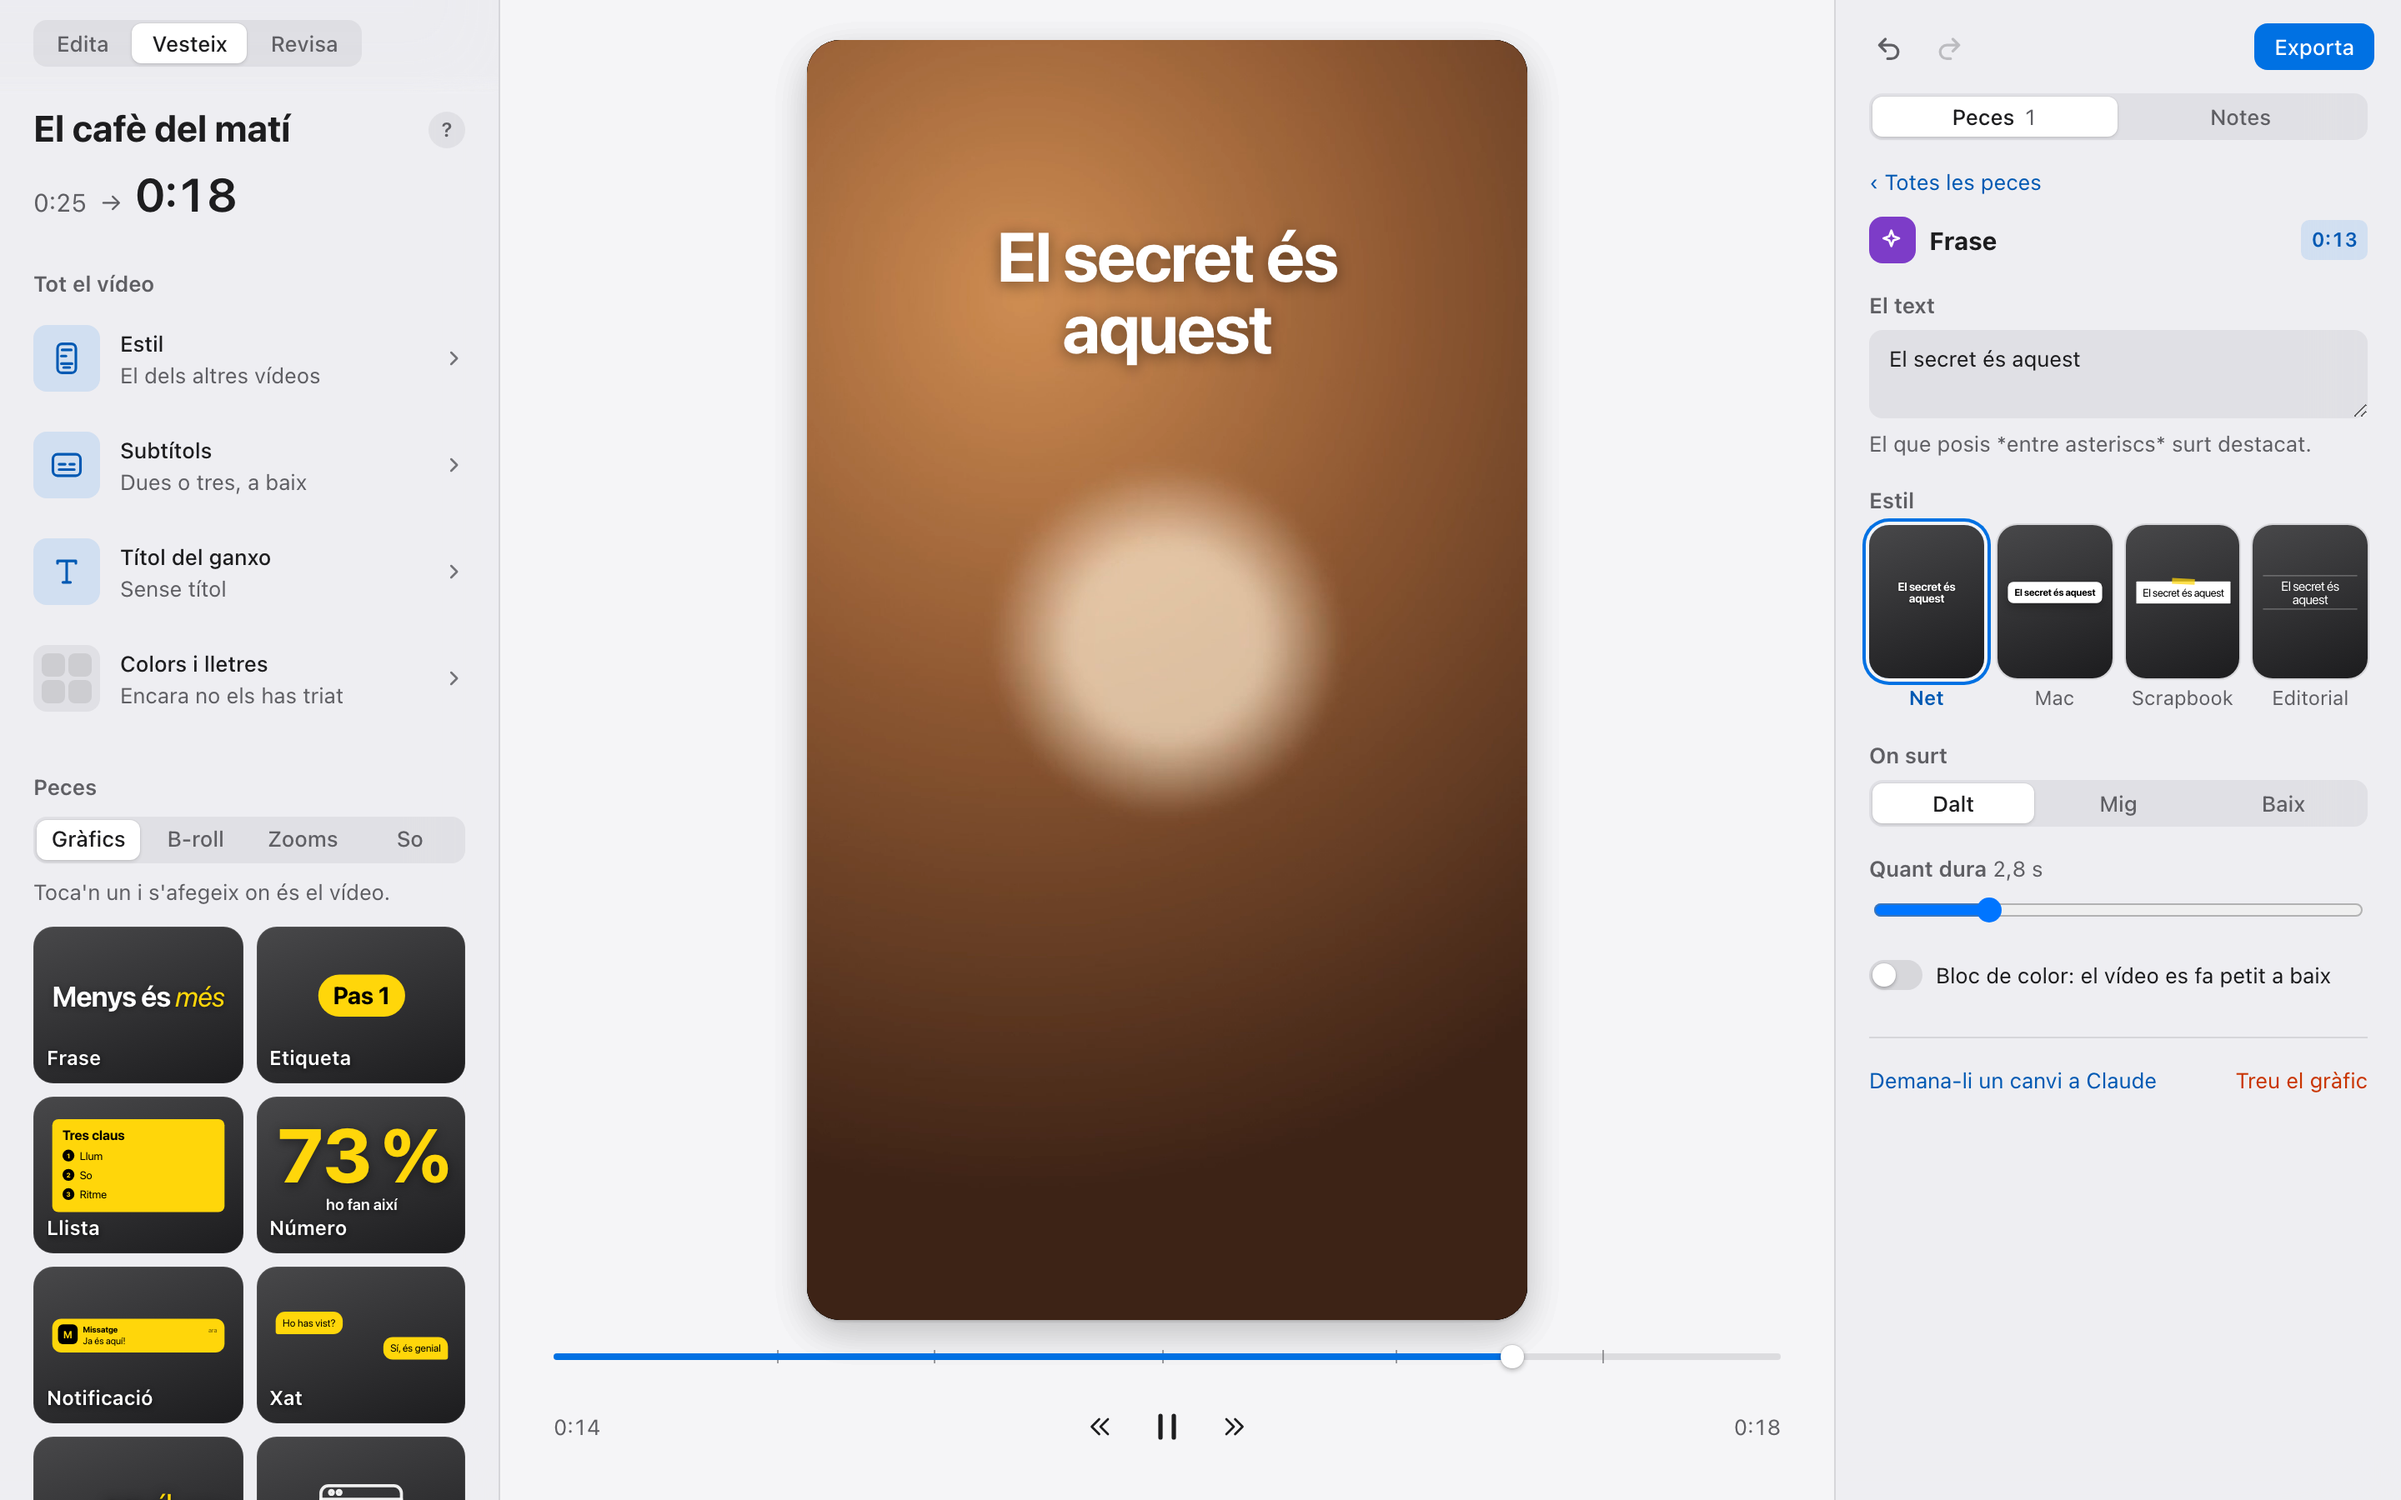
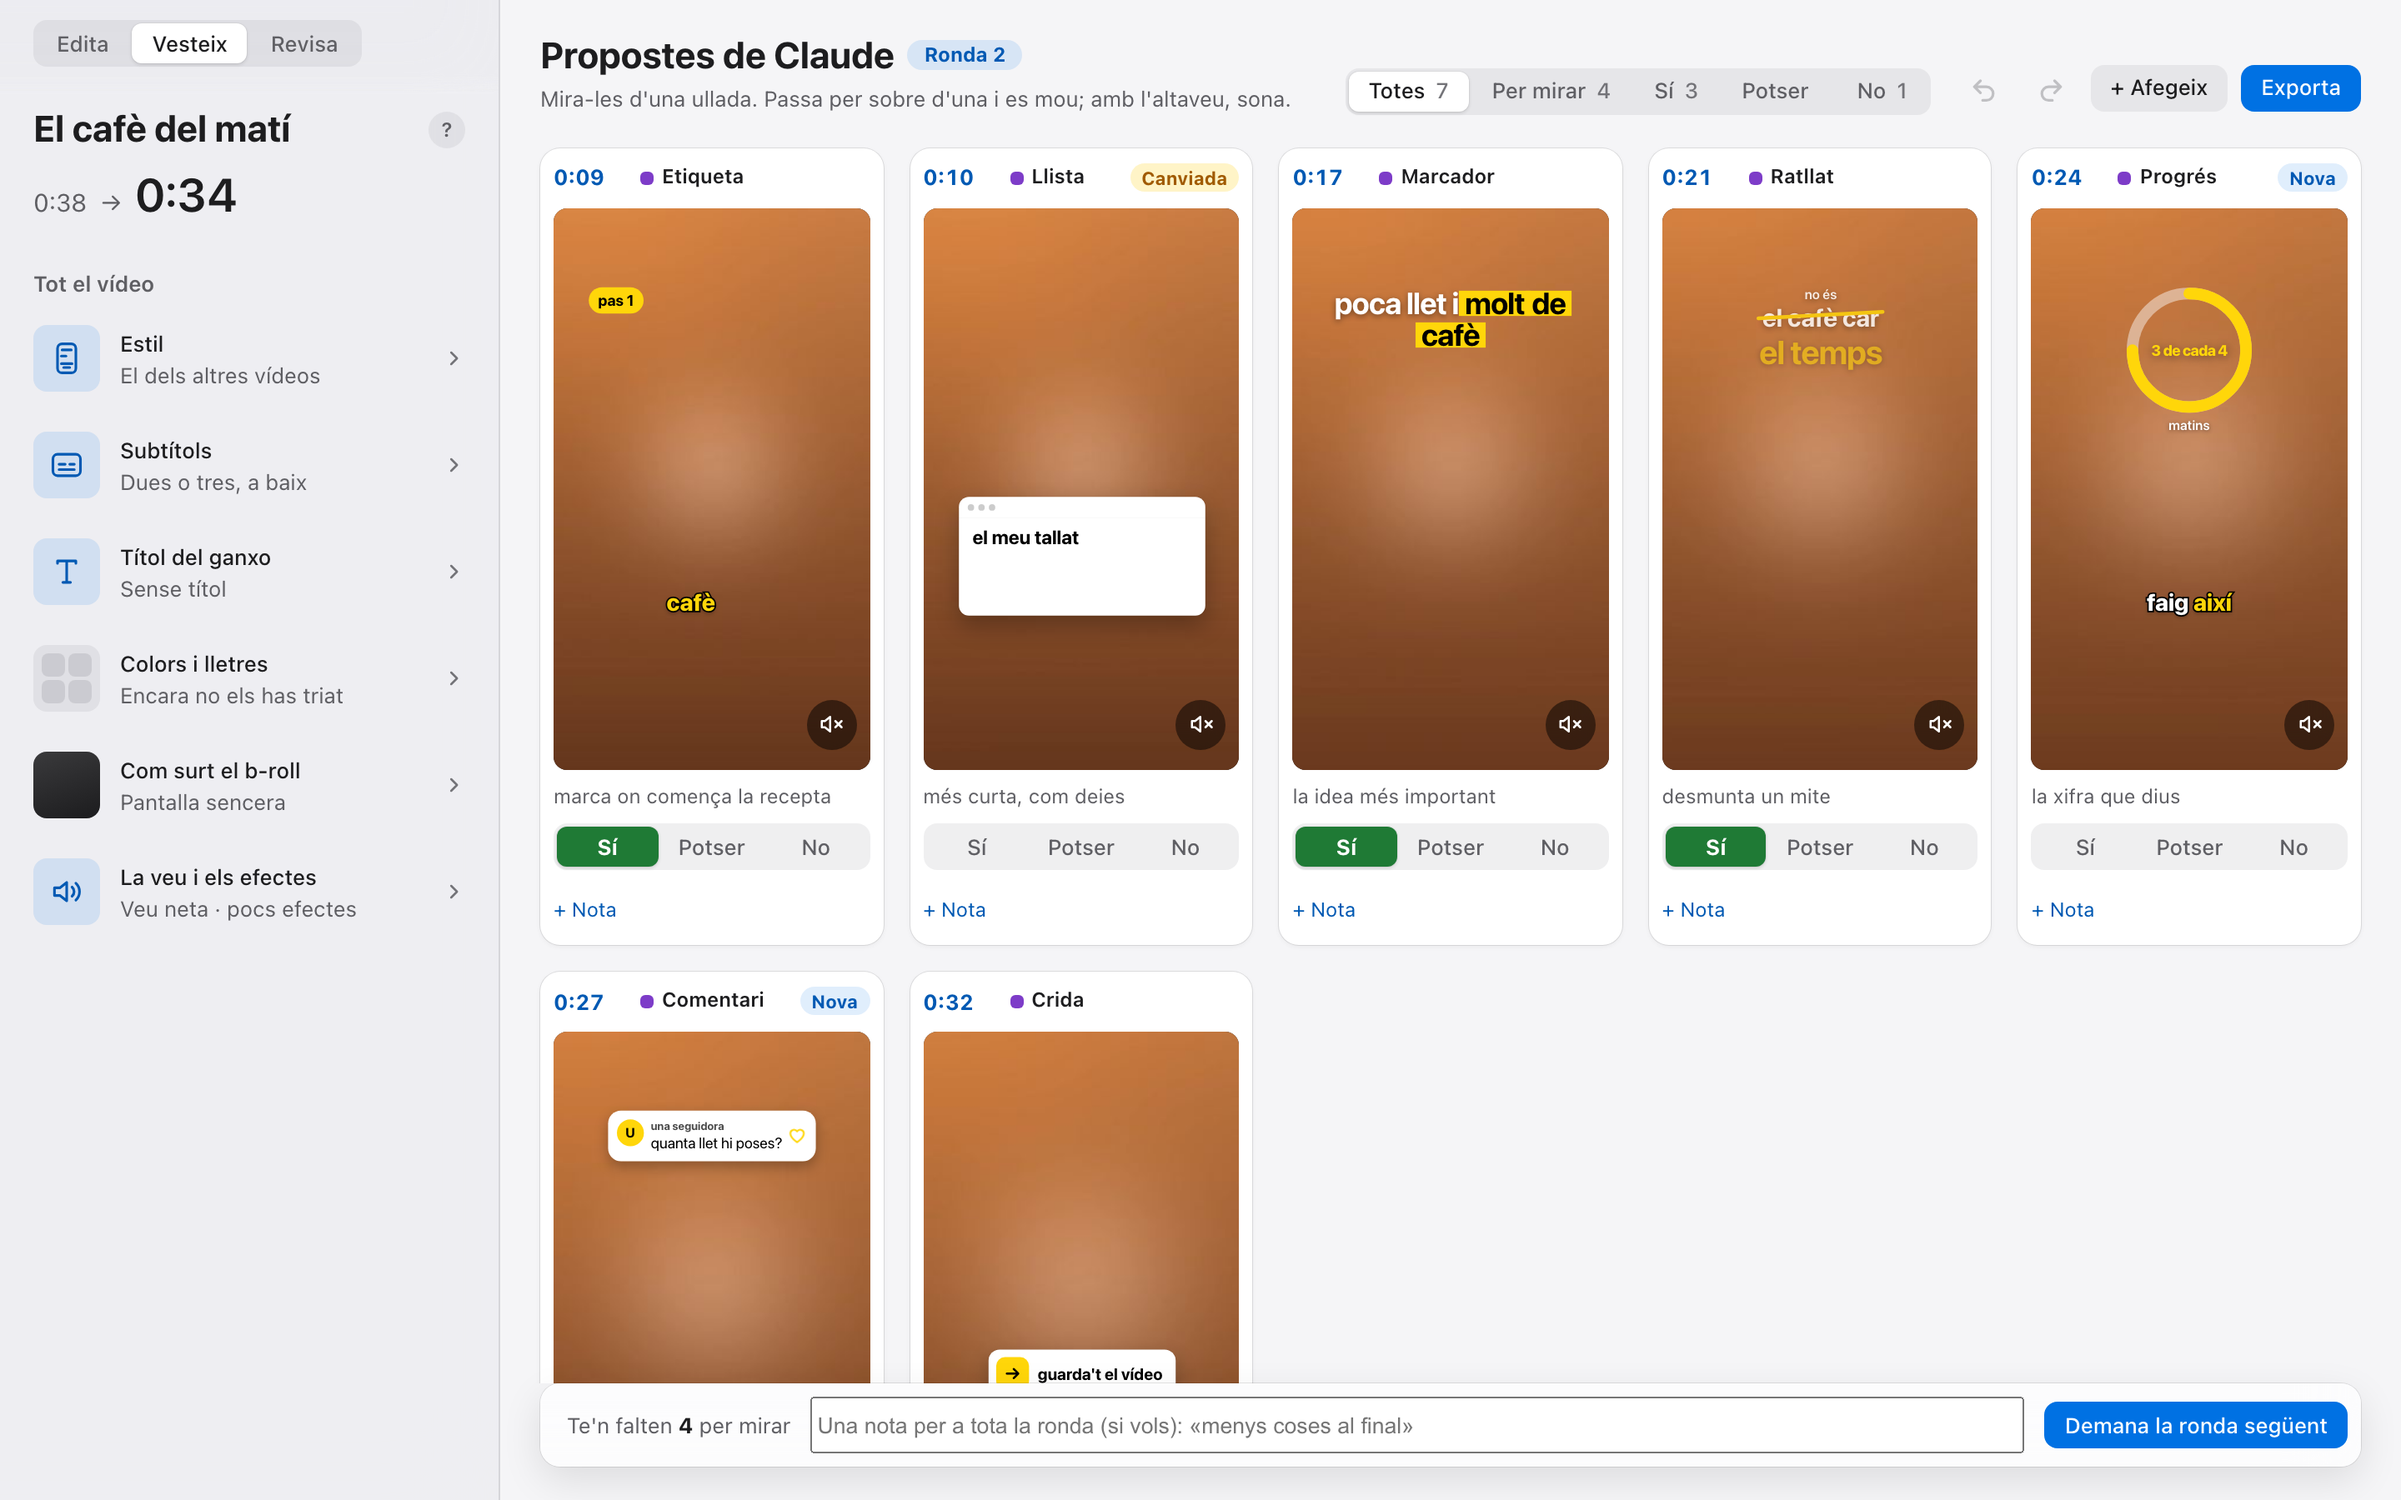
Versió 0.9.0: un tauler per votar les propostes de Claude, gràfics nous i el vídeo horitzontal

diff --git a/README.md b/README.md
@@ -21,15 +21,18 @@ tallat és un editor de reels en català que funciona dins de [Claude](https://c
 - **B-roll i stickers.** Fitxers teus, o generats amb la intel·ligència artificial d'imatge o vídeo que tinguis connectada a Claude. El b-roll pot tapar tota la pantalla o sortir en una targeta arrodonida, en una finestra petita, com una foto, amb la pantalla partida o en tres targetes seguides.
 - **Canvies l'ordre** dels paràgrafs arrossegant-los.
 - **Títol del ganxo.** Un text dissenyat per als primers segons («#3 canvis / **ser creadora** / nivell fàcil»), que pots escriure tu o et proposa Claude, amb el seu estil: en esglaó, com un rètol, a màquina d'escriure amb el fons enfosquit…
-- **Vesteix el vídeo tocant-lo.** Tria un estil per a tot el vídeo d'un sol toc (subtítols, títol, gràfics i b-roll: Net, Revista, Pop, Suau, Impacte o Apilat) i afegeix-hi peces: atura el vídeo on vulguis i toca un gràfic, un b-roll, un zoom o un so. Cada vídeo té el seu estil, i **⌘Z** ho desfà tot.
+- **Gràfics que expliquen el que dius.** Frases clau, un marcador fluorescent, el «no és X, és Y» ratllat, llistes, xifres que compten i cercles de progrés, comentaris i publicacions que respons, notes del mòbil, xats, el marc d'una càmera que grava, l'abans i després, fotos en ventall o en carrusel i la crida final («segueix-me»). Tot amb els teus colors i lletres.
+- **Claude te'ls proposa i tu els votes.** A **Vesteix**, totes les peces del vídeo surten en un tauler, cadascuna movent-se tal com quedarà. Hi dius **Sí**, **Potser** o **No** (amb una nota, si vols) i Claude en fa una ronda nova, fins que t'agradi. Hi pots afegir stickers i b-roll teus, i els stickers els arrossegues on vulguis.
+- **Un estil per a tot el vídeo d'un sol toc** (subtítols, títol, gràfics i b-roll: Net, Revista, Pop, Suau, Impacte o Apilat). Cada vídeo té el seu estil, i **⌘Z** ho desfà tot.
+- **Vídeo horitzontal.** Si graves en horitzontal, el pots retallar (se'n queda el centre) o posar-lo sencer, amb el mateix vídeo difuminat a dalt i a baix.
 - **Els teus colors i lletres.** Els tries a la pàgina en 2 passos (o, si vols, Claude te'ls pregunta al xat, a partir d'un reel que t'hauria agradat fer), i els subtítols, el títol, els gràfics i el b-roll els fan servir sols.
 - **Uns quants estils.** Desa el teu estil (lletra, colors, animacions, durada del b-roll…) amb un nom, fes-ne uns quants per a tipus de vídeo diferents, tria'n un per a cada vídeo i passa'l a qui vulguis en un `.zip`.
 - **Recorda el teu gust.** Si dius a Claude «els subtítols, més grans» o «no em treguis mai els *vale*», et pregunta si és per sempre i ho aplica a tots els vídeos següents. Per veure les teves regles, pregunta-li «quines regles tinc?».
 - **Exporta** un esborrany ràpid, la versió final en 1080 o 4K vertical, o un projecte per acabar-lo a Premiere, Final Cut, DaVinci Resolve o CapCut.
 
-![Vesteix: a l'esquerra la galeria de peces, al mig el vídeo amb una frase clau, a la dreta la frase per retocar-la.](.github/imatges/2-vesteix.png)
+![Vesteix: a l'esquerra el que val per a tot el vídeo; al mig, el tauler amb els gràfics que proposa Claude, cadascun amb el seu tros de vídeo i els botons Sí, Potser i No.](.github/imatges/2-vesteix.png)
 
-*A Vesteix, toques una peça i s'afegeix on és el vídeo. A la dreta la retoques.*
+*A Vesteix, cada gràfic que et proposa Claude es mou tal com quedarà al vídeo. Hi dius Sí, Potser o No, i Claude en fa una ronda nova.*
 
 ![Una nota per a Claude sota el vídeo, i la resposta de Claude: ha posat un zoom.](.github/imatges/3-notes.png)
 
@@ -99,8 +102,8 @@ Claude baixa i prepara tot el que tallat necessita: ffmpeg (per treballar el ví
    | amagar la columna de l'esquerra o la del vídeo | ⌃⌘S / ⌥⌘V |
 
    A la columna de l'esquerra d'**Edita** hi ha **Per revisar** (les instruccions de veu i les paraules que tallat et proposa treure) i el **Ritme** (com de curts vols els silencis).
-3. Ves a **Vesteix** (a dalt a l'esquerra): és on tries com es veu. A **Tot el vídeo**: l'**Estil** (sis maneres de vestir tot el vídeo d'un sol toc: subtítols, títol, gràfics i b-roll), els **Subtítols** i el **Títol del ganxo** (es retoquen a la dreta) i els teus **Colors i lletres** (valen per a tots els vídeos). El que canvies és només d'aquest vídeo; si t'agrada, **Fes-lo servir en tots els vídeos**. A **Peces**, els **gràfics**, el **b-roll**, els **zooms** i el **so**: atura el vídeo on vulguis i toca'n una, i s'hi afegeix. A la dreta la retoques (el text, l'estil, on surt…) o la treus (⌫). Si no en toques cap, a la dreta hi ha totes les del vídeo, per ordre.
-4. Si vols que Claude te'n proposi, toca **Demana-li gràfics a Claude** (o digues-li **«proposa'm gràfics»** al xat): et proposa frases clau, etiquetes, llistes, notificacions, comentaris, xats, números que compten, notes escrites a mà, captures de webs, fotos en ventall i la crida final, amb els colors i les lletres del teu estil. Els seus porten l'etiqueta «Claude». Si un gràfic té el **bloc de color**, el vídeo es fa petit a baix i el gràfic surt a dalt sobre el teu color.
+3. Ves a **Vesteix** (a dalt a l'esquerra): és on tries com es veu. A l'esquerra, **Tot el vídeo**: l'**Estil** (sis maneres de vestir tot el vídeo d'un sol toc: subtítols, títol, gràfics i b-roll), els **Subtítols** i el **Títol del ganxo** (es retoquen a la dreta), els teus **Colors i lletres** (valen per a tots els vídeos), **Com surt el b-roll** i **La veu i els efectes**. Si el vídeo és horitzontal, també **Vídeo horitzontal**: retallat o sencer, amb el fons difuminat. El que canvies és només d'aquest vídeo; si t'agrada, **Fes-lo servir en tots els vídeos**.
+4. Al mig de **Vesteix** hi ha el **tauler**, amb totes les peces del vídeo per ordre: gràfics, b-roll, stickers, zooms i sons. Toca **Demana propostes a Claude** (o digues-li **«proposa'm gràfics»** al xat) i te'n proposa amb els colors i les lletres del teu estil. Passa per sobre d'una targeta i es mou com quedarà (amb l'altaveu, sona). A cada una digues **Sí**, **Potser** o **No**, i si vols deixa-hi una **nota** («més curta», «més avall»). Quan acabis, toca **Demana la ronda següent**: Claude canvia les que no t'han convençut i en proposa de noves (surten amb l'etiqueta **Nova**). Amb **+ Afegeix** hi poses un sticker, una imatge o un vídeo teu; els stickers els pots arrossegar dins de la targeta, on vulguis que surtin. Quan ho tinguis, **Ja està: mira'l sencer** en fa un esborrany i te'l porta a **Revisa**.
 5. Clica **Exporta** (a dalt) → **Esborrany** i mira'l. El que vulguis canviar, digues-ho a Claude amb el segon, que veus sota el vídeo: «al segon 12, el b-roll és massa llarg». O deixa-li una **nota**: a sota del vídeo, atura'l on vulguis i escriu què vols (o prem **N**). Quan acabis, toca **Envia a Claude**: les fa i et respon a sota de cada nota. Si la pàgina diu «No connectat», escriu-li al xat «mira les meves notes».
 6. Per a les revisions finals, toca **Revisa** (a dalt). Hi veus l'esborrany gran i hi deixes notes, cada una amb la miniatura del seu moment. Envia-les a Claude: les fa i en treu una **versió nova**, que surt sola a Revisa. Així fins que t'agradi.
 7. Quan t'agradi, **Exporta** → **Vídeo final** (1080 o 4K). O, si el vols acabar en un altre editor, **Per acabar-lo en un altre editor**: Premiere, Final Cut o DaVinci, o CapCut o iMovie. Els vídeos que ja has fet també surten a **Exporta**.
